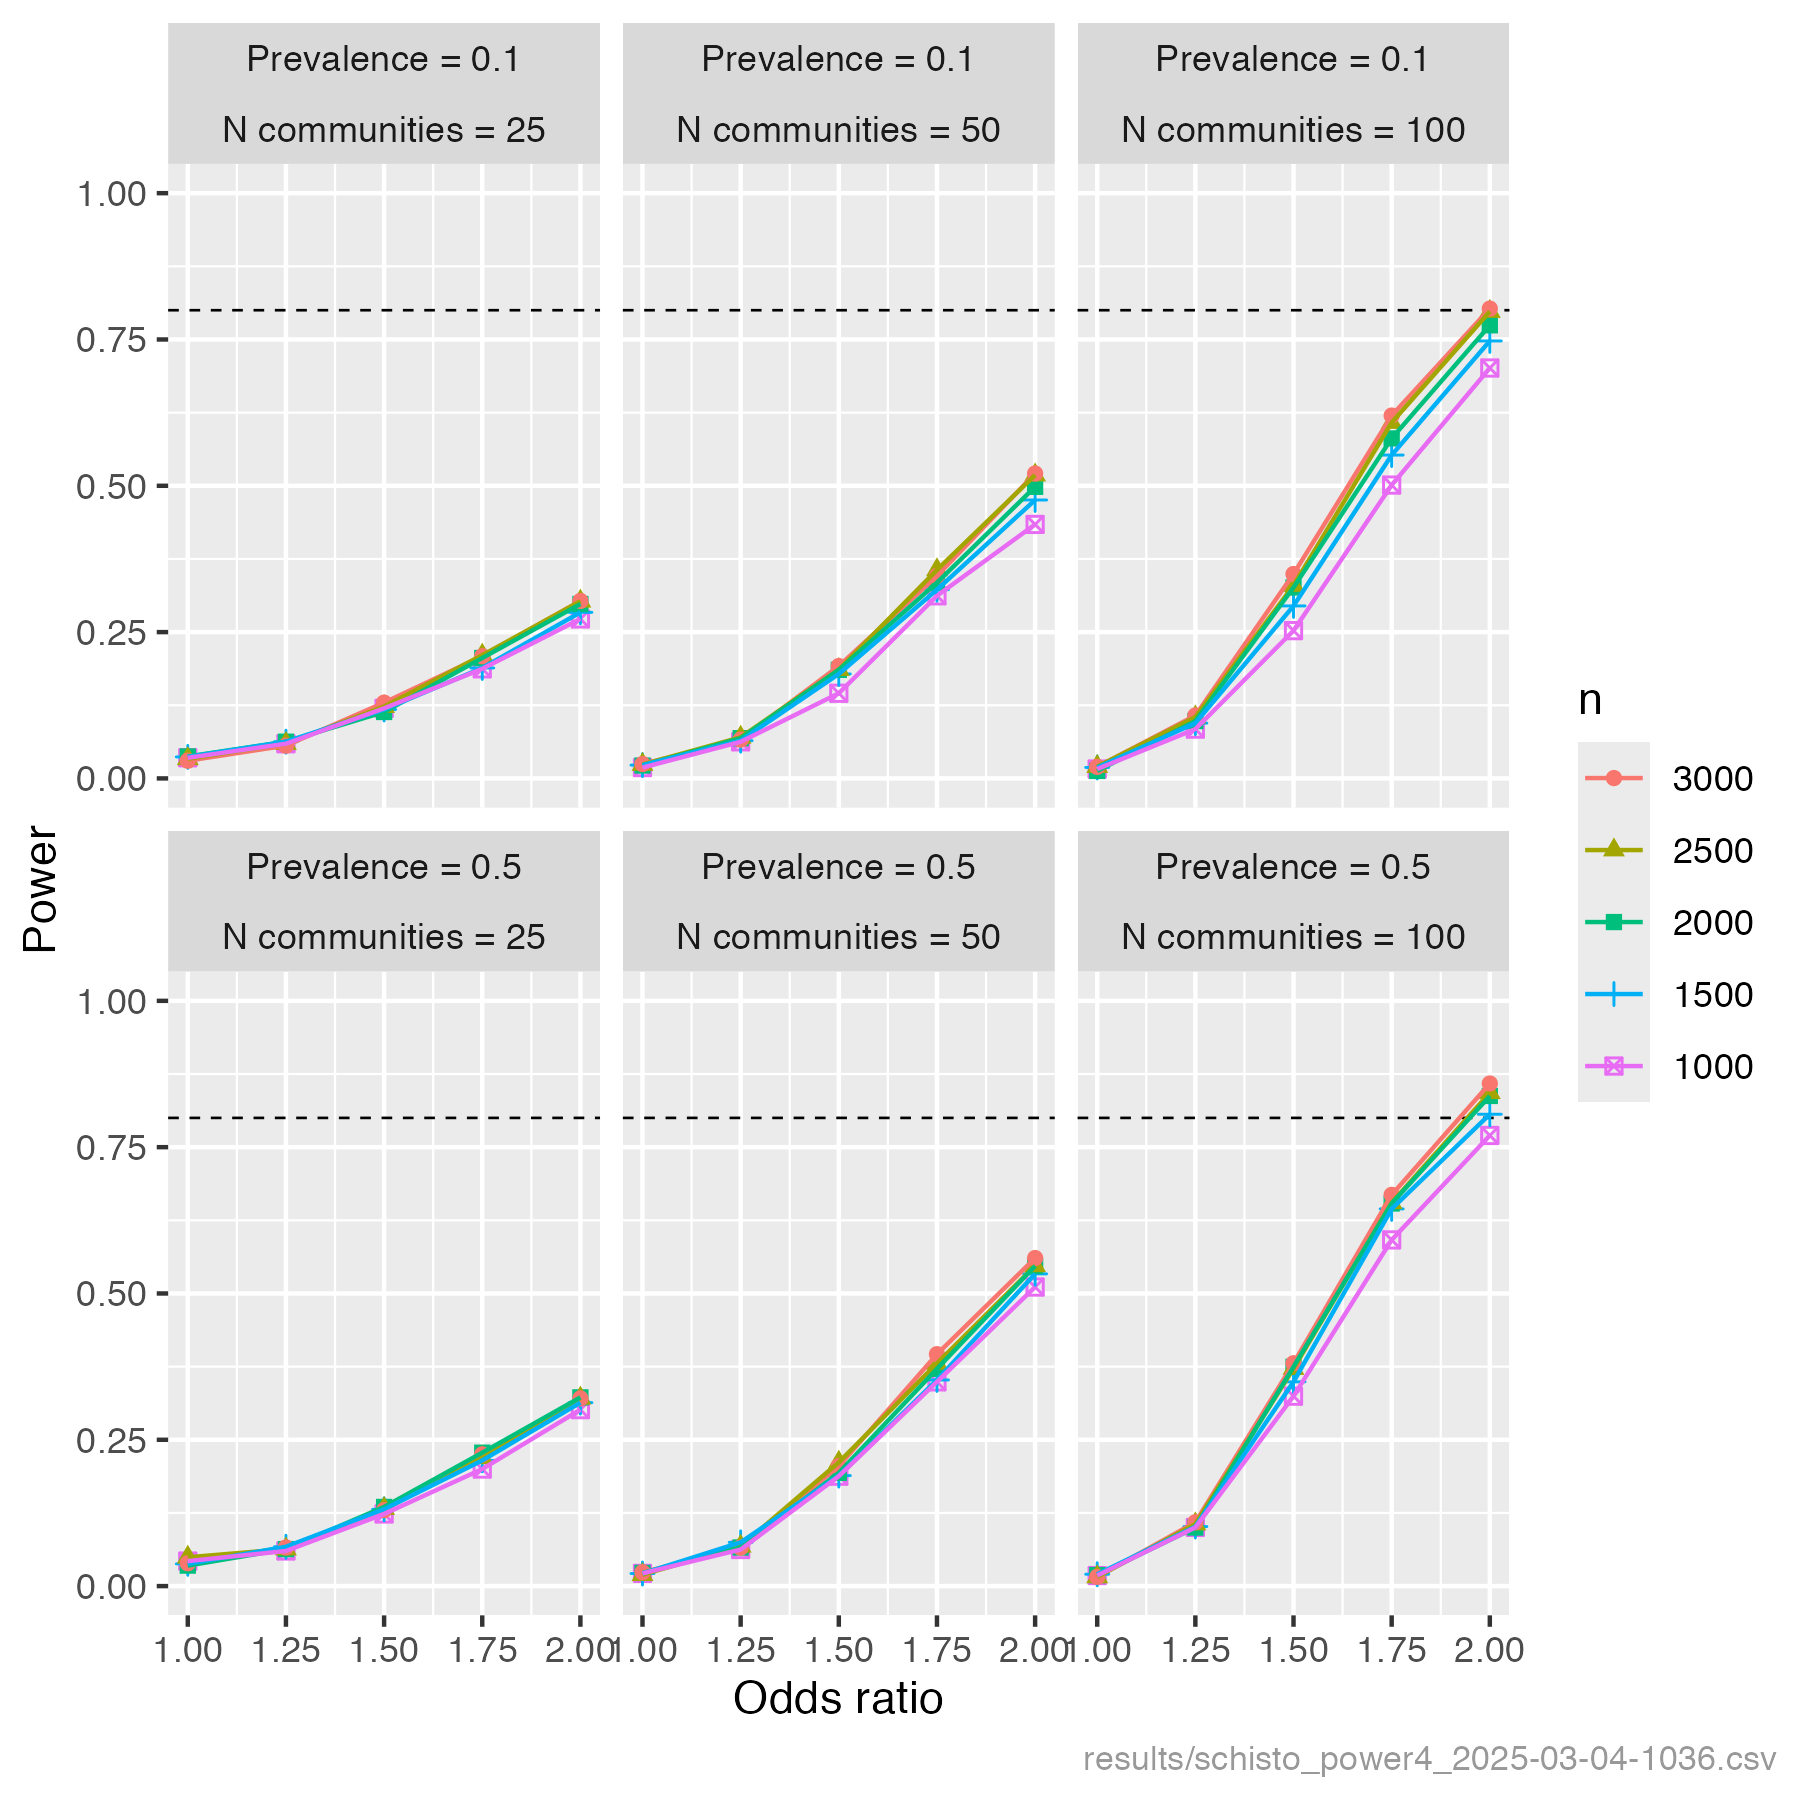
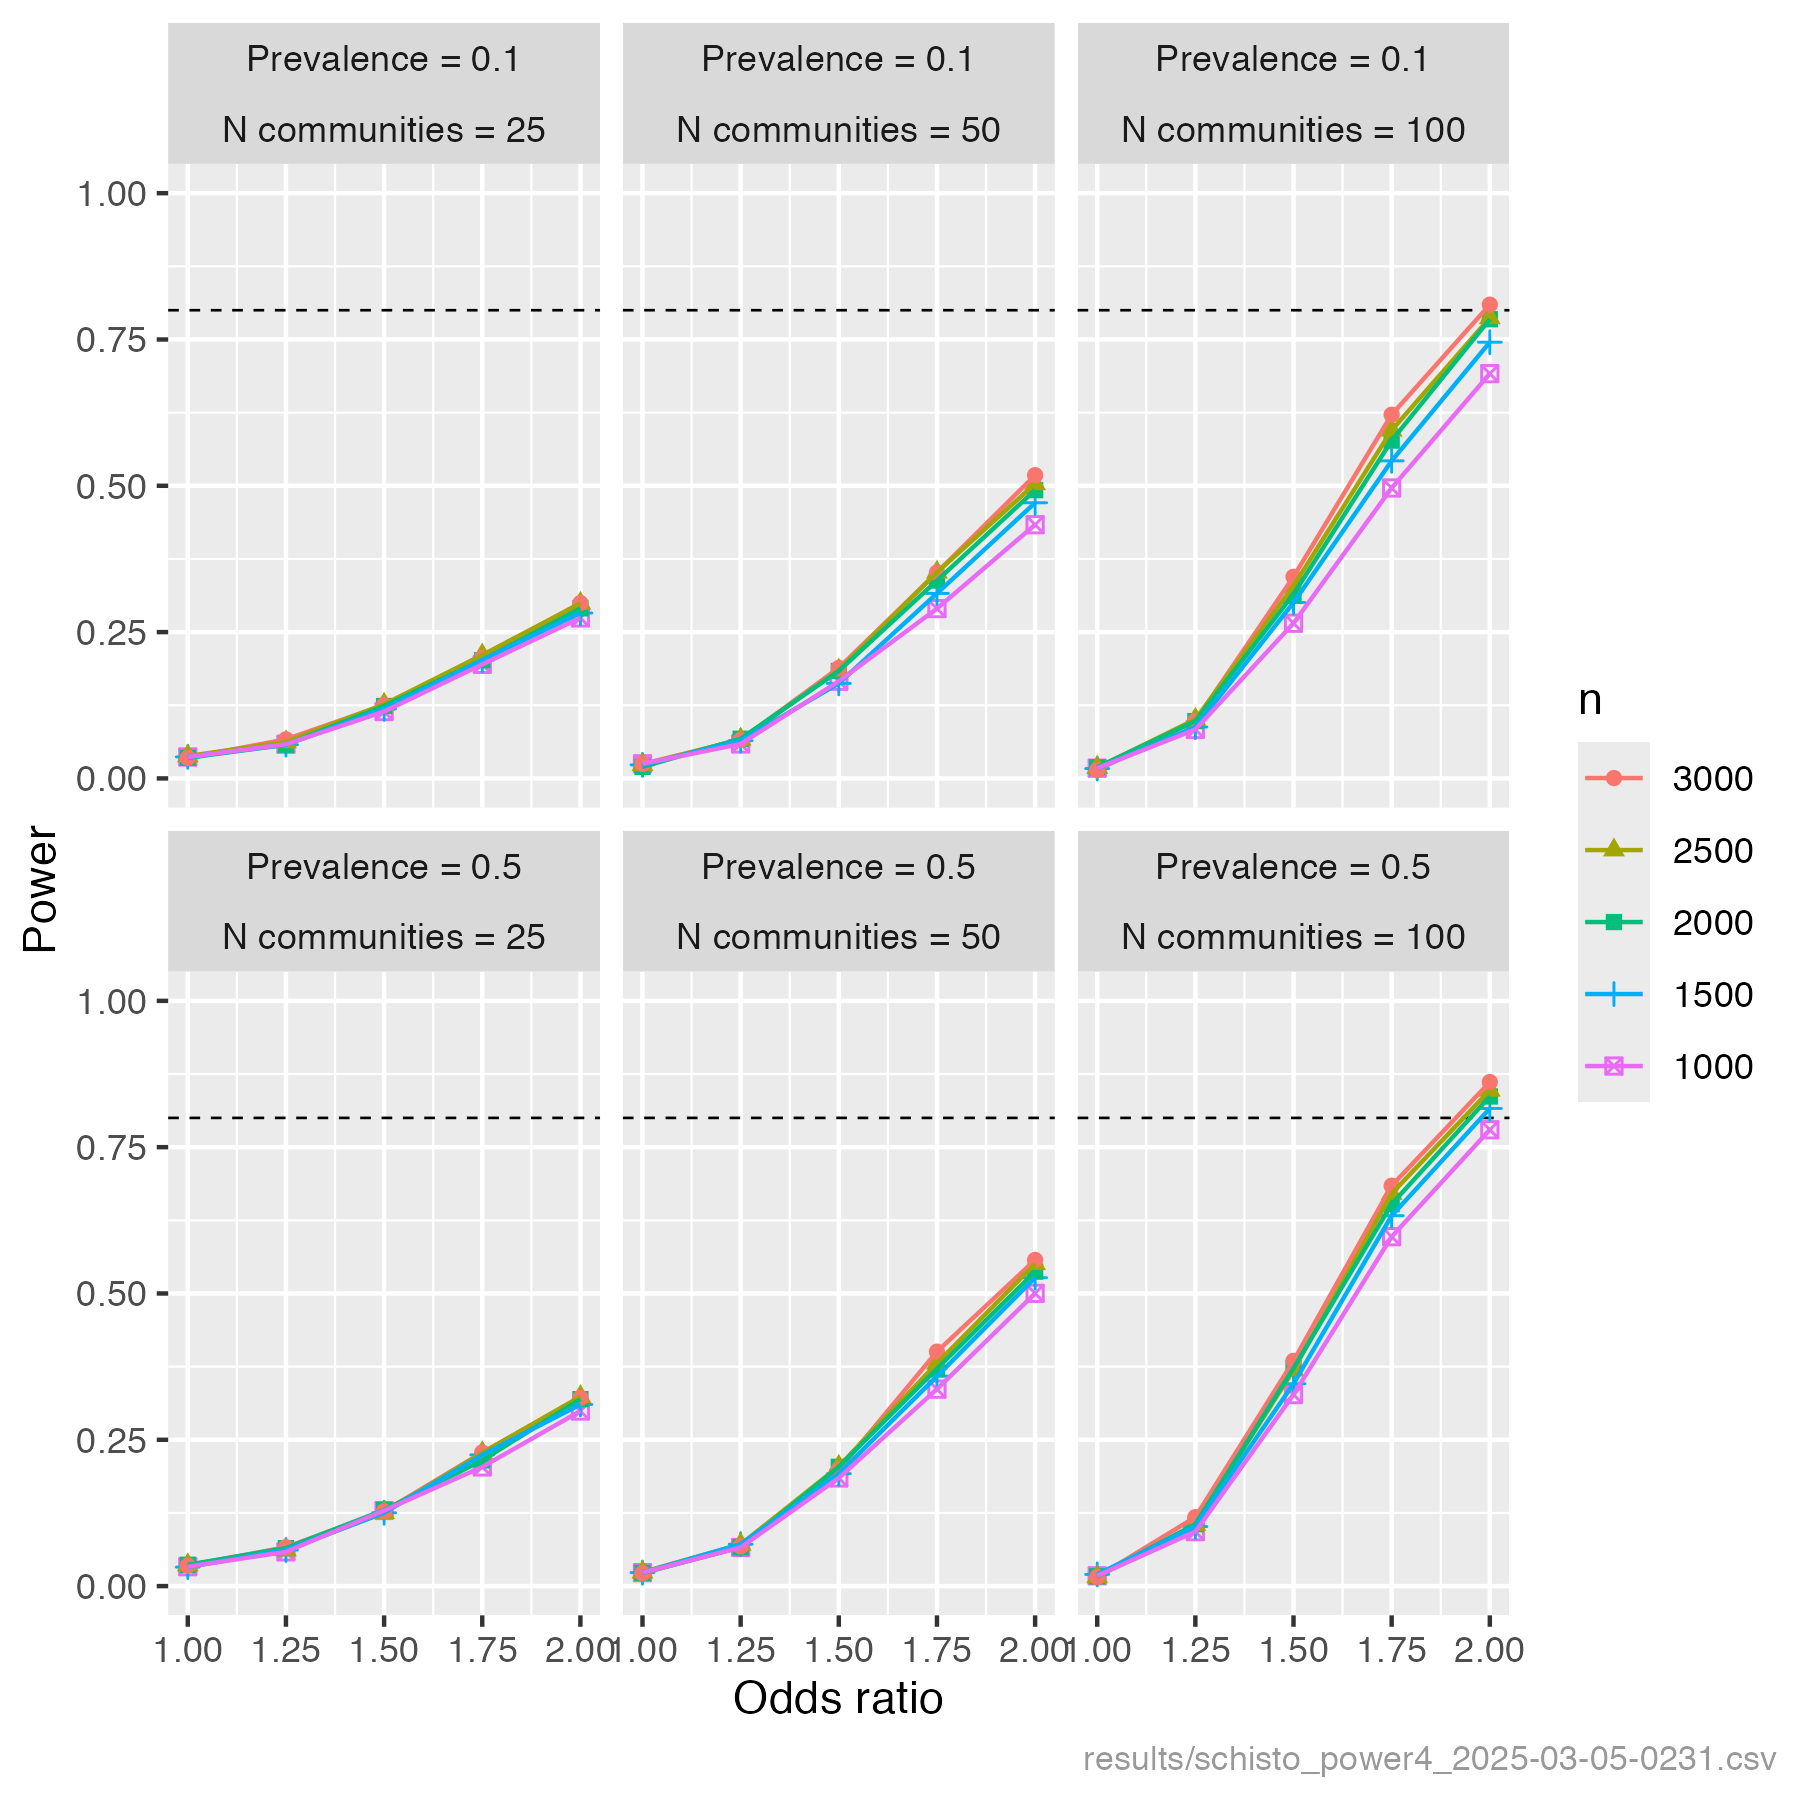
longer run (n.sim <- 2000)

diff --git a/README.md b/README.md
@@ -24,7 +24,7 @@
 
  ### Methods
 
- The aim of this power analysis is to estimate power to detect drivers of praziquantel treatment failure in individuals infected with schistosomiasis. This is a simulation-based power analysis, where the study data is simulated and analysed multiple times under varying study design scenarios, and power is estimated as the proportion of simulated analyses that achieve the desired outcome (detecting a true driver of treatment failure). The association between the outcome (treatment failure) and each driver is estimated and tested in a multivariable GLM. For this analysis, power is defined as the proportion of drivers that are significantly associated with the outcome, averaged across 1000 simulated data analyses per scenario.
+ The aim of this power analysis is to estimate power to detect drivers of praziquantel treatment failure in individuals infected with schistosomiasis. This is a simulation-based power analysis, where the study data is simulated and analysed multiple times under varying study design scenarios, and power is estimated as the proportion of simulated analyses that achieve the desired outcome (detecting a true driver of treatment failure). The association between the outcome (treatment failure) and each driver is estimated and tested in a multivariable GLM. For this analysis, power is defined as the proportion of drivers that are significantly associated with the outcome, averaged across 2000 simulated data analyses per scenario.
 
  The following assumptions are made:
 - 10 drivers are associated with the outcome, of which 3 are binary and 7 continuous. The prevalences of the binary drivers are: 0.5, 0.2, 0.2, representing  malaria, soil-transmitted helminths, hybrid/resistance presence .
@@ -48,7 +48,7 @@
 
  ### Methods
 
- The aim of this power analysis is to estimate power to detect community-level drivers of schistosomiasis infection, and the expected margin of error around community-level driver odds ratio estimates. This is a simulation-based power analysis, where the study data is simulated and analysed multiple times under varying study design scenarios, and power is estimated as the proportion of simulated analyses that achieve the desired outcome (detecting a true driver of infection). The association between the outcome (infection) and each driver is estimated and tested in a multivariable GLMM. For this analysis, power is defined as the proportion of drivers that are significantly associated with the outcome, averaged across 500 simulated data analyses per scenario.
+ The aim of this power analysis is to estimate power to detect community-level drivers of schistosomiasis infection, and the expected margin of error around community-level driver odds ratio estimates. This is a simulation-based power analysis, where the study data is simulated and analysed multiple times under varying study design scenarios, and power is estimated as the proportion of simulated analyses that achieve the desired outcome (detecting a true driver of infection). The association between the outcome (infection) and each driver is estimated and tested in a multivariable GLMM. For this analysis, power is defined as the proportion of drivers that are significantly associated with the outcome, averaged across 1000 simulated data analyses per scenario.
 
  The following assumptions are made:
 - 4 continuous drivers are associated with the outcome.
